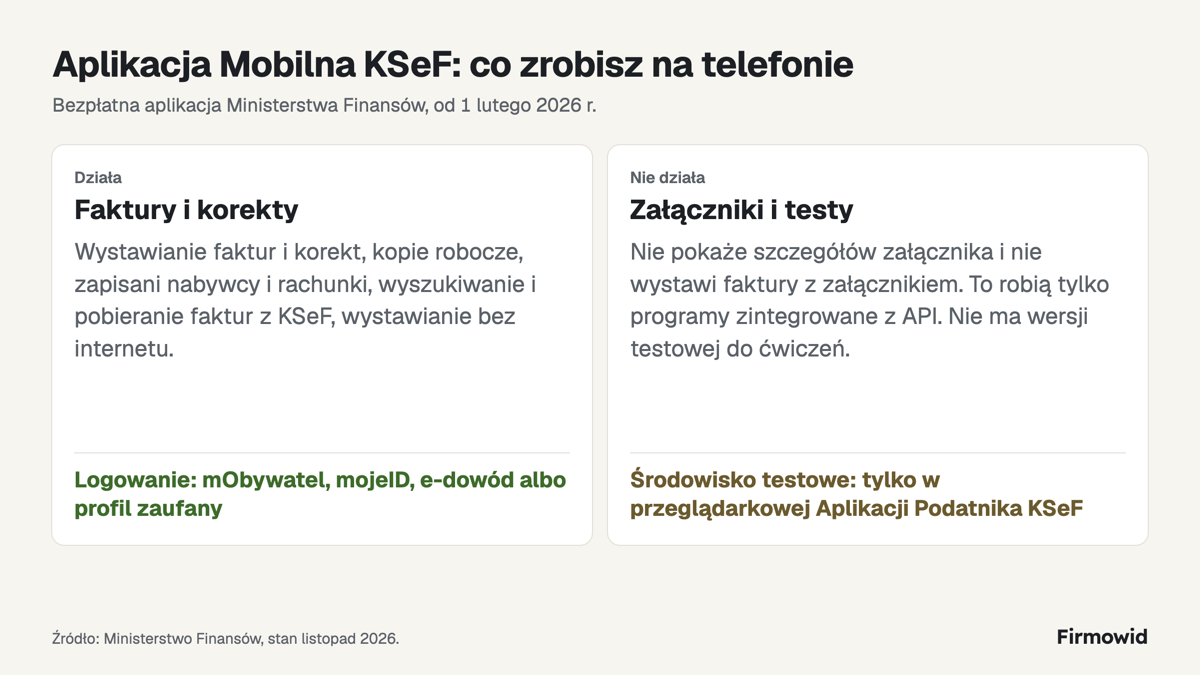
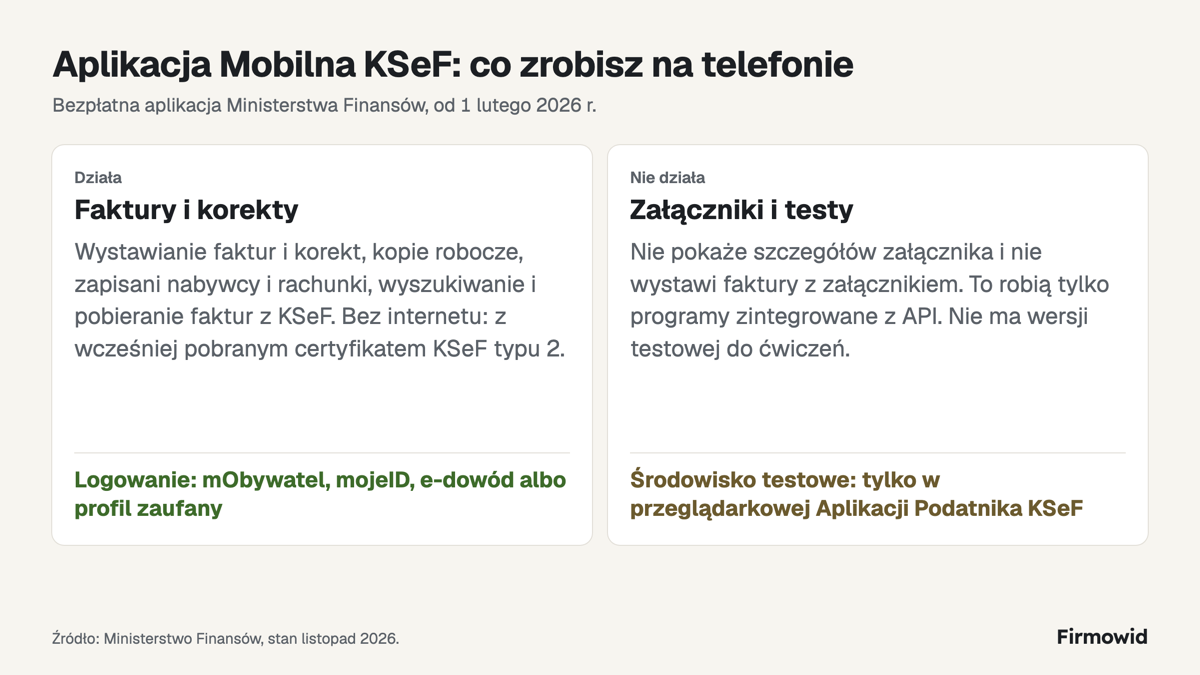
fix(landing): note the offline certificate the KSeF mobile app needs
Addresses review feedback on PR #415.

Changed region(s): [[0.0617, 0.4356, 0.4625, 0.5289]]

diff --git a/priv/guides/aplikacja-mobilna-ksef.md b/priv/guides/aplikacja-mobilna-ksef.md
@@ -14,7 +14,7 @@ Aplikację Mobilną KSeF Ministerstwo Finansów udostępnia bezpłatnie od 1 lut
 | Kopie robocze faktur | tak |
 | Zapisani nabywcy, rachunki bankowe i profile przedsiębiorcy | tak |
 | Wyszukiwanie i pobieranie faktur wysłanych do KSeF | tak |
-| Wystawianie bez internetu i w czasie niedostępności KSeF | tak |
+| Wystawianie bez internetu i w czasie niedostępności KSeF | tak, z wcześniej pobranym certyfikatem KSeF typu 2 |
 | Podgląd szczegółów załącznika do faktury | nie |
 | Wystawianie faktur z załącznikiem | nie, tylko programy zintegrowane z API |
 | Wersja testowa do ćwiczeń | nie, tylko produkcyjna |
@@ -31,7 +31,7 @@ Logowanie idzie przez login.gov.pl: mObywatel, mojeID, e-dowód albo profil zauf
 
 Środowisko testowe działa tylko w przeglądarkowej Aplikacji Podatnika KSeF.
 
-![Aplikacja Mobilna KSeF wystawia faktury i korekty, zapisuje kopie robocze, nabywców i rachunki, pobiera faktury z KSeF i działa bez internetu. Nie pokazuje szczegółów załącznika, nie wystawia faktur z załącznikiem i nie ma wersji testowej.](/images/guides/aplikacja-mobilna-ksef-co-potrafi.webp)
+![Aplikacja Mobilna KSeF wystawia faktury i korekty, zapisuje kopie robocze, nabywców i rachunki, pobiera faktury z KSeF a bez internetu działa z wcześniej pobranym certyfikatem KSeF typu 2. Nie pokazuje szczegółów załącznika, nie wystawia faktur z załącznikiem i nie ma wersji testowej.](/images/guides/aplikacja-mobilna-ksef-co-potrafi.webp)
 
 ## Źródła
 
